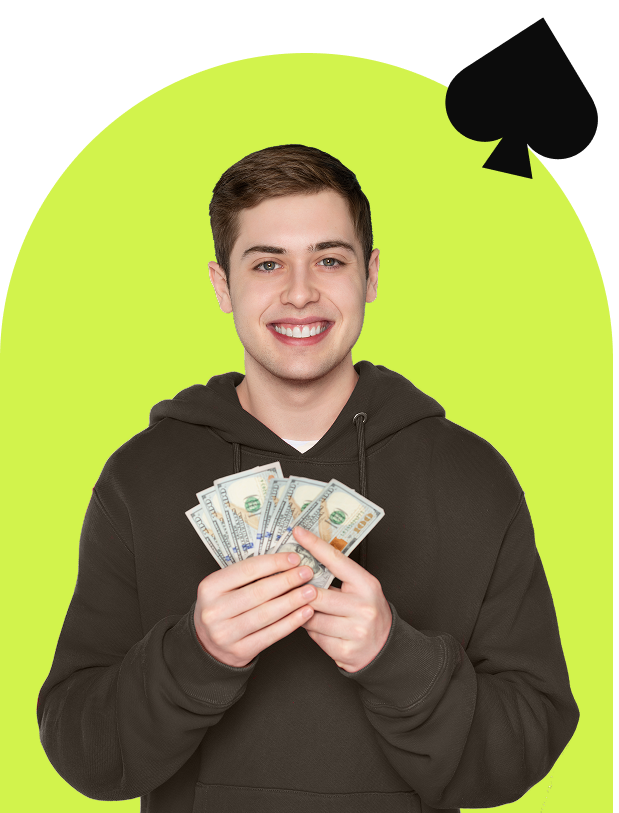
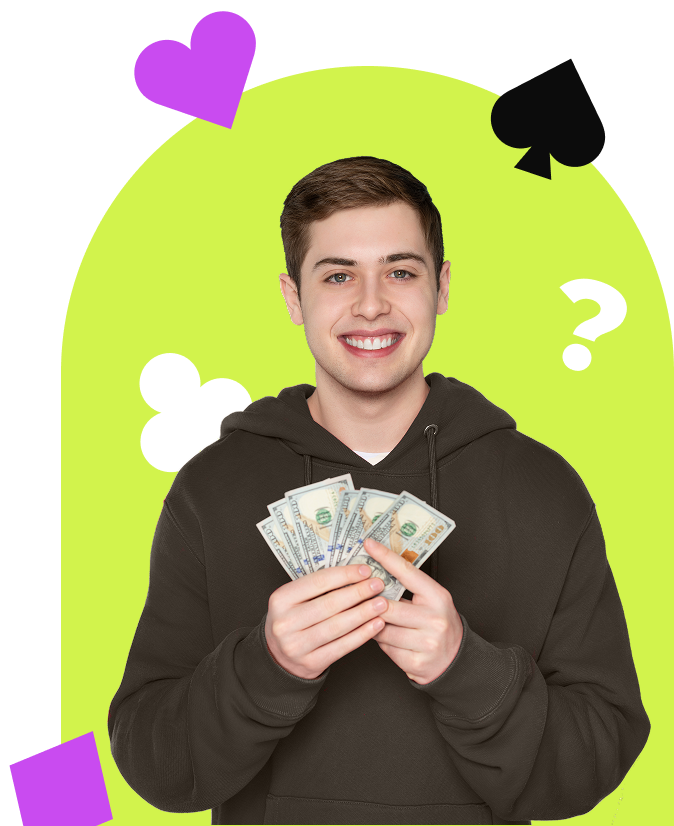
suits size change

diff --git a/app/page.js b/app/page.js
@@ -93,13 +93,13 @@ function LandingPage() {
               </button>
             </div>
           </div>
-          <div className="lg:w-1/2 flex justify-center">
+          <div className="lg:w-1/2 flex justify-center mr-6">
             <Image
               src="/frankie-hero.png"
               alt="Person"
-              width={400}
-              height={400}
-              className="md:w-[450px] 2xl:w-[550px]"
+              width={450}
+              height={450}
+              className="md:w-[500px] 2xl:w-[600px]"
             />
           </div>
         </div>
@@ -114,7 +114,7 @@ function LandingPage() {
             viewBox="0 0 167 154"
             fill="none"
             xmlns="http://www.w3.org/2000/svg"
-            className="absolute top-[200px] left-[-50] w-40 hidden xl:block z[-1]"
+            className="absolute top-[200px] left-[0] w-[120px] hidden xl:block z[-1]"
           >
             <path
               d="M165.409 34.5977C160.274 10.758 137.387 -3.94083 114.163 1.06121C95.4101 5.1003 82.321 21.3995 80.636 39.9763C71.4489 23.7435 52.9066 14.7239 34.1535 18.763C10.9249 23.766 -3.97845 46.0447 1.15816 69.8934C3.74999 81.927 10.3898 89.3931 20.0884 96.8243L105.103 153.384L159.215 66.8587C165.002 56.0924 167.998 46.6222 165.409 34.5977Z"
@@ -161,7 +161,7 @@ function LandingPage() {
                   viewBox="0 0 166 150"
                   fill="none"
                   xmlns="http://www.w3.org/2000/svg"
-                  className="absolute top-[60px] right-40 w-28 z-0 opacity-60 z-[1] lg:top-[30px]"
+                  className="absolute top-[60px] right-40 w-[100px] z-0 opacity-60 z-[1] lg:top-[30px]"
                 >
                   <path
                     fillRule="evenodd"
@@ -201,7 +201,7 @@ function LandingPage() {
       <section className="w-full bg-cBeige z-10">
         {/* Header above the form */}
         <div
-          className=" max-w-3xl lg:max-w-4xl text-center mt-8 relative z-10  mx-auto md:mt-12 lg:mb-3 lg:mt-14"
+          className=" max-w-3xl lg:max-w-4xl text-center mt-8 relative z-10  mx-auto md:mt-12 lg:mb-5 lg:mt-16"
           ref={formRef}
         >
           <h2 className="text-3xl font-bold lg:text-5xl">
